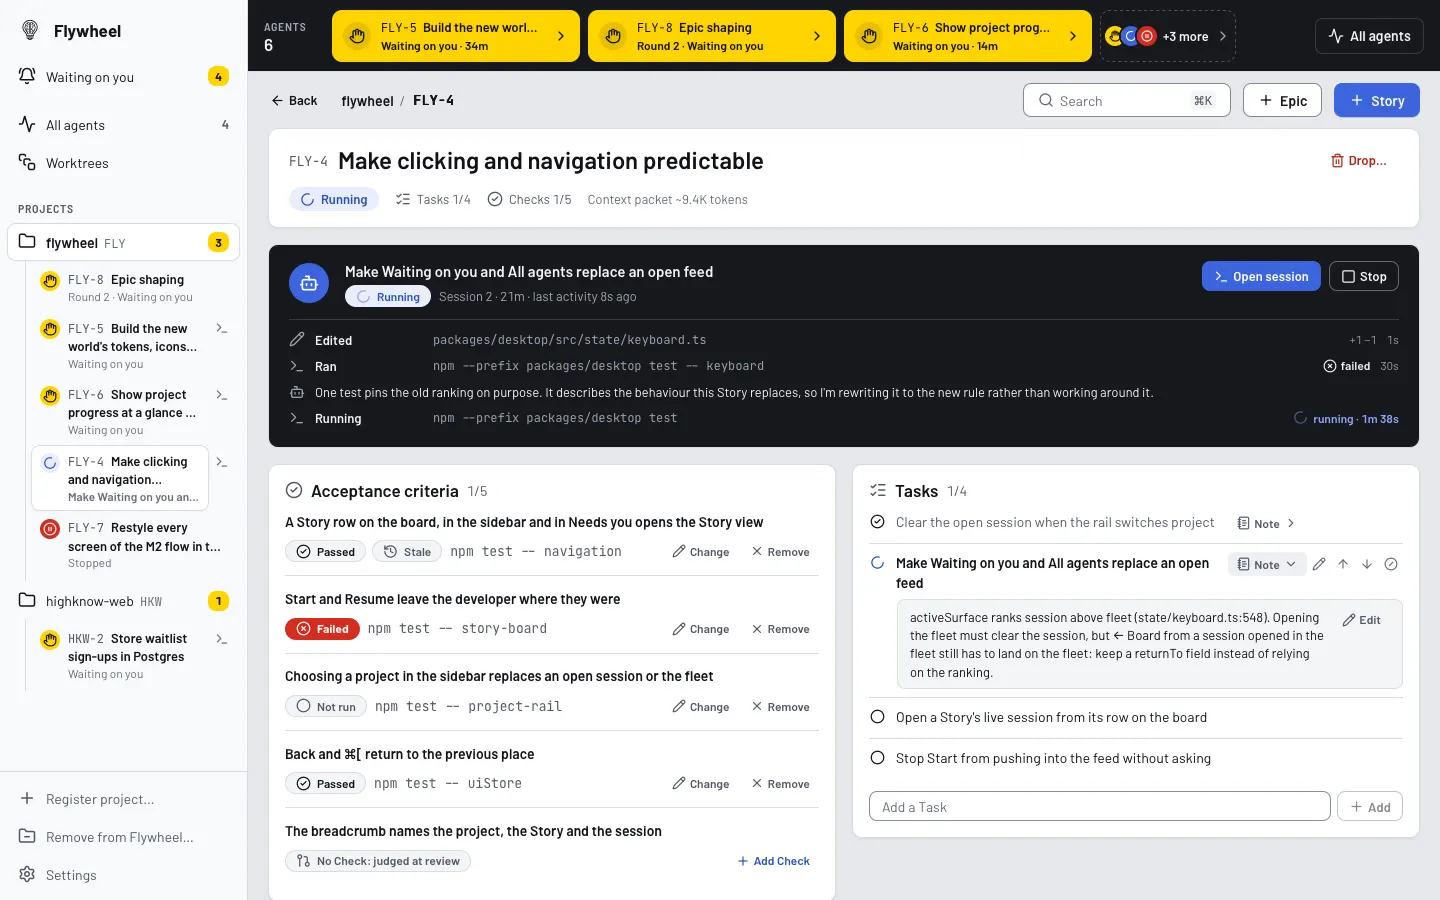
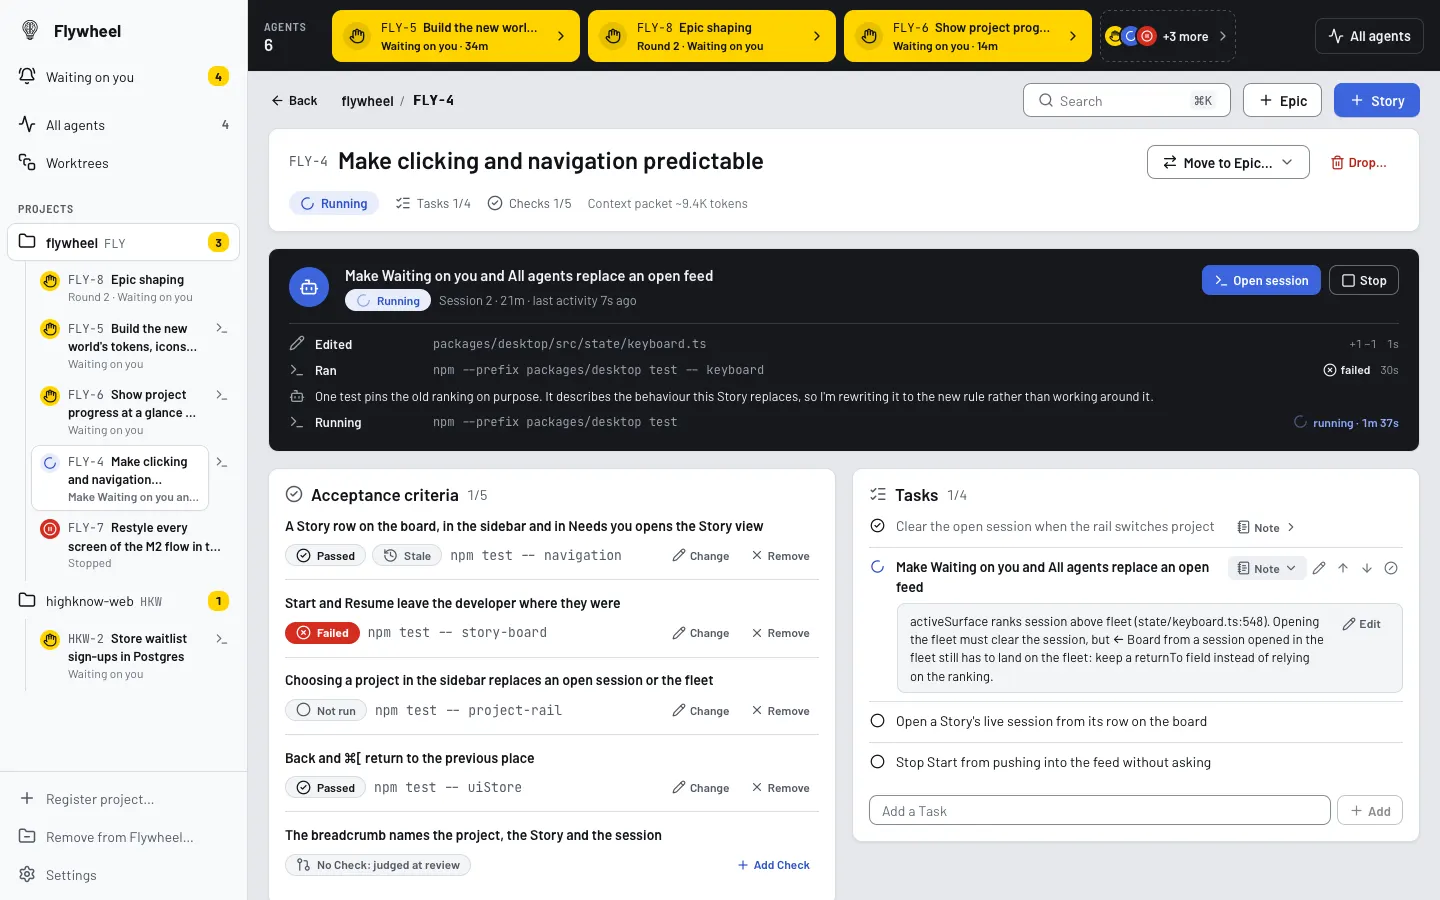
docs: critique screens 70-73 for + Story, + Epic and Move to Epic, 01/03/17 re-shot, and the controls in DESIGN.md

diff --git a/packages/desktop/src/test/critique/m2-flow.critique.browser.test.tsx b/packages/desktop/src/test/critique/m2-flow.critique.browser.test.tsx
@@ -1038,6 +1038,41 @@ describe.runIf(Boolean(SCHEME))("M2 flow screens", () => {
     }
   });
 
+  it("70 board: + Story on an Epic card opens Write a Story with that Epic chosen (issue #168)", async () => {
+    await boardReady();
+    await userEvent.click((await screen.findAllByRole("button", { name: /^Add a Story to / }))[0]);
+    await screen.findByRole("dialog", { name: "Write a Story" });
+    await shot("70-board-add-story-on-epic-card");
+  });
+
+  it("71 board: + Epic in the Milestone header opens Add an Epic on that Milestone (issue #168)", async () => {
+    await boardReady();
+    await click(/^Add an Epic to /);
+    await screen.findByRole("dialog", { name: "Add an Epic" });
+    await shot("71-board-add-epic-in-milestone-header");
+  });
+
+  it("72 Story view: Move to Epic lists the other open Epics under their Milestones (issue #168)", async () => {
+    await boardReady();
+    await openStory("FLY-4", "Make clicking and navigation predictable");
+    await click("Move FLY-4 to another Epic");
+    await screen.findByRole("menu");
+    await shot("72-story-move-to-epic");
+  });
+
+  it("73 Story view at the window's minimum width: Move to Epic beside Drop (issue #168)", async () => {
+    await page.viewport(900, 900);
+    try {
+      await boardReady();
+      await openStory("FLY-4", "Make clicking and navigation predictable");
+      await click("Move FLY-4 to another Epic");
+      await screen.findByRole("menu");
+      await shot("73-story-move-to-epic-min-width");
+    } finally {
+      await page.viewport(1440, 900);
+    }
+  });
+
   it("16 navigation: picking a project while the fleet is open", async () => {
     await boardReady();
     await click("Open fleet");

diff --git a/DESIGN.md b/DESIGN.md
@@ -377,6 +377,9 @@ What changed on the project since the Developer last opened its board (`board/Si
 ### Confirm exit test
 Confirming an Epic or a Milestone Done is the developer's act, and the click is also the consent to a roadmap Round (#134, `board/ConfirmExitTest.tsx`). It shows on an Epic card's heading, in the slot the shaping control holds, once shaping is closed and every Story is Merged or Dropped (the slot is 152px at least, so every Epic's bar keeps its column); and on a Milestone once every Epic is Done, in the shaping control's place (#132): beside the state pill in the picked Milestone's header, and in the slot at the end of any other Milestone's strip row, the picked row's slot left empty because its header carries it. Confirm exit test (`circle-check-big`) is the region's filled primary on the card and the header, the next action, and an outline at the extra-small size in a strip row. It opens an AlertDialog, 32rem wide: "Confirm the exit test of Rounds?" (the record as its card heads it), the exit test quoted in an inset panel captioned "Exit test · FLY-3", what Done means in secondary ink ("A Done Epic stays done"), then, in ink because it is what the click consents to, the Round it starts in the words of its packet ("Confirming also starts a short roadmap Round on "Shaping": an agent asks whether its exit test is still reachable, and whether an Epic is missing or one to drop"), or, with a Round already open, that the trigger is noted on it instead. The footer reads Not met: reopen shaping (ghost, `undo-2`, set apart at its start: Decline, the other answer, never offered on a Milestone still in Shaping), then Not yet, then the filled Confirm Done (`check`). Either answer removes the control, so what follows is said once by the board (`ConfirmExitTestOutcome`): a polite announcement ("FLY-3 Rounds is Done. Roadmap Round 2 started, on the Roadmap strip.", "Shaping reopened on FLY-3 Rounds."); the keyboard moves, without scrolling the board, to the Round's band after a confirmation and to Shape (or the Milestone's row) after a decline. A session that could not start opens a dialog of its own, "Rounds is Done", with the reason in code face and Continue on the strip as the way on. A Done confirmed while a Round is open adds a line to that Round's band (`list-plus`, "Also noted: Epic FLY-4 done." semibold, then "The Round's next session reads it." in the band's secondary ink).
 
+### Adding and Moving Records
+Creating an Epic or a Story and moving a Story between Epics each have a control where the record goes (#168, `board/AddRecordControls.tsx`, `board/MoveToEpic.tsx`), beside the top bar's + Epic and filled + Story, which stay for a record whose place is not on screen. An open Epic's card heading carries a ghost small "+ Story" before its action slot, so the slot keeps its column; it opens Write a Story with that Epic and its Milestone already chosen. An open Milestone's header carries an outline small "+ Epic" after its state pill and shaping control; it opens Add an Epic on that Milestone. Neither shows on a Done or Dropped record. An open Story's title card carries an outline "Move to Epic…" (`arrow-right-left`, a trailing chevron-down) before Drop: a menu of the project's other open Epics under their Milestone names (condensed meta captions, separated by a rule), each Epic its key in code face at meta size and its title. Picking one moves the Story at once, with no confirmation: nothing is lost, and moving it back is the same act. A refusal is said in the title card, as Start's is.
+
 ### Round Dock
 The Epic's shaping view (`shaping/EpicShapingView.tsx`, #123) is the Stage bar across the top, then the Epic card beside the dock: from 1280px side by side (card 5 parts, dock 7), below that stacked in reading order: the current Round, the Epic card, then the earlier Rounds (a Sheet, as direction.md first planned, would hide the Epic being shaped behind the questions about it). The Epic card is a title card (`layers`, the key in code face, the state pill, the title at title size) over the four spec fields, each a meta-size label with a ghost Edit and its prose at a 68ch measure ("Not written yet" in meta ink); editing opens a textarea in place with Save (outline) and Cancel. The dock (`shaping/RoundDock.tsx`) is one card per Round, newest first. A Round the session is held on wears the request card's frame: the 2px attention edge and the yellow band (`hand`, "Round n", "Waiting on you"); any other Round has the inset band and a 1px edge. Under the note, a bar that stays on screen while the questions scroll carries the region's one filled action, Accept all recommended (`check-check`), the tabular "n of m answered" and a hint. Each open question (`shaping/QuestionCard.tsx`) reads: the ink number chip inline before the question at row size (the title is kept for the folded line, never set above the question as an eyebrow), the grounding line in meta ink behind `file-text`, then the recommended answer already filled in, a running-tint box with a 1px primary edge, "Recommended" in running ink behind a check, the answer semibold and its "Because" line in secondary ink; then Accept (outline) and Answer differently (ghost), which opens a textarea on the recommendation, with the recommendation and its reason kept above it in running ink, Send answer, Cancel and a ⌘↩ hint. A Round outlives its session (#124): an open Round no live session is held on keeps the inset band, never yellow, and the dock still takes every answer; the band reads "No live session: your answers are kept" with Continue shaping (outline) at its end, or, while a fresh session reads the Rounds before its `round_wait` takes this one over, "The agent is reading your answers and picks this Round up". The shaping view's header then carries no control of its own: the band does, and its Epic card's pill names the same attention as the board's. On the board the Epic card's state pill reads Waiting on you (attention) while a live session is held on a Round, and Shaping Round waiting (neutral, `circle-dashed`) while a Round is open with no live session. An answered question folds to one 44px line: a check, a quiet number chip, the title, the answer in secondary ink, whose answer it was ("Recommended" or "Your answer") in meta ink, and Change (ghost) while the Round is open.
 
